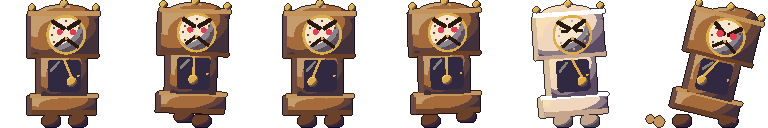
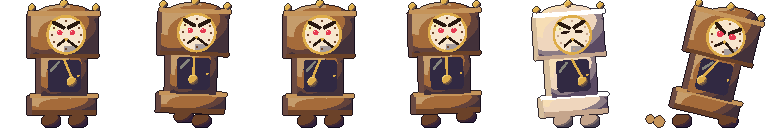
2D enemies: polish pass in progress (blob, memory book, grandfather clock)
Done: further refinements to the three enemy sprites on stages 1 to 6; only enemy PNGs changed among the assets.
To do: final 2D pass and before/after check.
Notes for the others: drawing only, no gameplay change.

diff --git a/tools/assetgen/SpriteGen.cpp b/tools/assetgen/SpriteGen.cpp
@@ -826,7 +826,7 @@ void lump(Canvas& c, float cx, float cy, float rx, float ry, float amp, float ph
         float dx = (f.x - cx) / rx, dy = (f.y - cy) / ry;
         float a = std::atan2(dy, dx);
         float k = 1 + amp * (0.9f * std::sin(2 * a + 0.7f + ph) + 0.6f * std::sin(3 * a + 2.1f - 2 * ph) +
-                             0.35f * std::sin(5 * a + 1.3f + 3 * ph));
+                             0.25f * std::sin(5 * a + 1.3f + 3 * ph));
         f.nx = dx / k;
         f.ny = dy / k;
         return f.nx * f.nx + f.ny * f.ny <= 1.0f;
@@ -852,16 +852,20 @@ void drawBlob(Canvas& c, int frame)
     const int e = g_era;
     const int tp = TILE_PX[e];
     const int dotPx = tp >= 64 ? 3 : (tp >= 32 ? 2 : 1);
-    Col body = pc(0x9a92ac, 2), smear = pc(0x7c7590, 1), faint = pc(0x5a536c, 1);
+    Col body = pc(0x9a90b2, 2), smear = pc(0x7c7590, 1), faint = pc(0x5a536c, 1);
     Col sheen = pc(0xb8b2c6, 3);
     if (e == 2) { body = hex(0x8a7fb4); smear = hex(0x5a5468); faint = hex(0x5a5468); sheen = hex(0xb8b6c8); }
+    if (e == 3) { faint = hex(0x463a66); smear = hex(0x6e6a9e); }
+    if (e >= 4) faint = hex(0x4a4462);
     const float ph = frame * 1.5707963f;
 
     if (frame == BF_SQUASH) {
         // gone flat: a puddle with a couple of flecks thrown off, the two dots shut
         lump(c, 0.5f, 0.93f, 0.44f, 0.1f, 0.12f, 0.6f, 0.99f, lit(body));
-        c.circle(0.14f, 0.74f, 0.045f, solid(body));
-        c.circle(0.86f, 0.7f, 0.035f, solid(smear));
+        if (e >= 4) {
+            c.circle(0.14f, 0.76f, 0.04f, solid(body));
+            c.circle(0.86f, 0.72f, 0.03f, solid(smear));
+        }
         c.rect(0.52f, 0.9f, 0.1f, 1.2f / tp, solid(faint));
         c.rect(0.72f, 0.91f, 0.08f, 1.2f / tp, solid(faint));
         return;
@@ -878,26 +882,37 @@ void drawBlob(Canvas& c, int frame)
         float x0 = cx - rx * (i == 1 ? 0.75f : 0.85f);
         c.capsule(x0 - smearLen[frame][i], smearY[i] + squish * 0.3f, x0 + 0.1f, smearY[i], smearR[i], solid(smear));
     }
-    // a sag pulling off the back, and half-formed bumps that come and go on top
-    lump(c, cx - 0.2f, 0.82f, 0.19f, 0.14f, 0.1f, ph + 1.0f, 0.98f, lit(body));
-    const float bumpX[4] = {0.62f, 0.58f, 0.66f, 0.6f}, bumpR[4] = {0.13f, 0.1f, 0.12f, 0.14f};
-    lump(c, bumpX[frame] + sway, cy - ry * 0.85f, bumpR[frame], bumpR[frame] * 0.85f, 0.12f, ph * 2, 1.0f, lit(body));
-    if (frame % 2 == 0) c.circle(cx - 0.18f, cy - ry * 0.8f, 0.07f, lit(body));
+    // one mass: the sag pulling off its back and the half-formed bumps on top are lit as part
+    // of the same lump, so they swell out of it rather than sit on it
+    auto mass = [&, body](float scx, float scy, float srx, float sry) -> Fill {
+        Fill base = lit(body);
+        return [=](const Frag& f) {
+            Frag g = f;
+            g.nx = (f.x - scx) / srx;
+            g.ny = (f.y - scy) / sry;
+            return base(g);
+        };
+    };
+    const Fill one = mass(cx, cy, rx * 1.1f, ry * 1.15f);
+    // it doesn't sit on the ground like a stone: it slumps, spreading out into a soft skirt
+    lump(c, cx + 0.02f, 0.93f, rx * 1.12f, 0.07f, 0.1f, ph + 2.0f, 0.985f, one);
+    lump(c, cx - 0.2f, 0.82f, 0.19f, 0.14f, 0.08f, ph + 1.0f, 0.98f, one);
+    const float bumpX[4] = {0.64f, 0.4f, 0.58f, 0.36f}, bumpR[4] = {0.12f, 0.11f, 0.1f, 0.13f};
+    lump(c, bumpX[frame] + sway, cy - ry * 0.8f, bumpR[frame], bumpR[frame] * 0.85f, 0.1f, ph * 2, 1.0f, one);
+    if (frame % 2 == 0) c.circle(cx - 0.19f, cy - ry * 0.7f, 0.07f, one);
+    else c.circle(cx + 0.24f, cy - ry * 0.55f, 0.06f, one);
     // the mass itself, never quite the same shape twice
-    lump(c, cx, cy, rx, ry, 0.075f, ph, 0.98f, lit(body));
-    if (e >= 3) {
-        // a smudge of light dragged across it, and bumps half pushed out of the surface
-        c.capsule(cx - 0.24f, cy - ry * 0.45f, cx - 0.04f, cy - ry * 0.55f, 0.035f, solid(sheen));
-        lump(c, cx - 0.06f, cy + ry * 0.35f, 0.1f, 0.07f, 0.15f, ph, 1.0f, lit(body));
-    }
+    lump(c, cx, cy, rx, ry, 0.06f, ph, 0.98f, one);
+    if (e >= 4)   // a smudge of light dragged across it, as if rubbed with a thumb
+        c.capsule(cx - 0.24f, cy - ry * 0.5f, cx - 0.06f, cy - ry * 0.6f, 0.03f, solid(sheen));
     if (e >= 4) {   // loose specks drifting off the back
         c.dot(cx - rx - 0.22f, 0.66f + 0.02f * (frame % 2), smear, dotPx - 1 > 0 ? dotPx - 1 : 1);
         c.dot(cx - rx - 0.3f, 0.79f - 0.02f * (frame % 2), smear, 1);
     }
     // two dim dots that might be eyes, never quite level
     const float dy0[4] = {0.0f, 0.015f, 0.0f, -0.015f};
-    c.dot(cx + 0.1f, cy - 0.05f + dy0[frame], faint, dotPx);
-    c.dot(cx + 0.24f, cy - 0.0f - dy0[frame], faint, dotPx);
+    c.dot(cx + 0.0f, cy - 0.07f + dy0[frame], faint, dotPx);
+    c.dot(cx + 0.15f, cy - 0.04f - dy0[frame], faint, dotPx);
 }
 
 // The flyer: a memory book, a little worn hardback with its covers folded right back so the
@@ -926,11 +941,12 @@ void drawFlyer(Canvas& c, int frame)
     Col page = pc(0xf4eedc, 3), pageD = pc(0xd2c6a8, 2), pageE = pc(0xa89a80, 1);
     Col label = pc(0xead8a8, 3), ink = pc(0x2a1a1e, 0), ribbon = pc(0xd8a848, 2), white = pc(0xfaf3e6, 3);
     if (e == 2) { cover = hex(0xe8364f); coverD = hex(0x6a2c6e); worn = hex(0xf28cb4); pageD = hex(0xf5c9a0); ribbon = hex(0xf7d73a); }
-    if (e == 3) { cover = hex(0xa02a3a); coverD = hex(0x5a1a2a); worn = hex(0xc06a8a); }
+    if (e == 3) { cover = hex(0xa02a3a); coverD = hex(0x5a1a2a); worn = hex(0xc06a8a); pageD = page; pageE = hex(0xc89a7a); }
+    if (e <= 2) pageE = pageD;   // low res: every page the same, split by a line of shade
     if (hurt) { cover = pc(0xf0c8c8, 2); coverD = pc(0xc89aa0, 1); }
 
     const float flap = hurt ? 0.0f : std::sin(frame * 1.5707963f);
-    const float a0 = hurt ? 0.95f : -0.8f * flap;   // wing angle: negative is up
+    const float a0 = hurt ? 0.95f : -(e <= 2 ? 0.9f : 0.8f) * flap;   // wing angle: negative is up
     const int pages = e <= 2 ? 3 : 4;
     const float spread = e <= 2 ? 0.34f : (hurt ? 0.36f : 0.26f);
     const float bx = 0.5f, by = 0.5f + (hurt ? 0.04f : 0.03f * flap);
@@ -939,20 +955,22 @@ void drawFlyer(Canvas& c, int frame)
     // each wing: a fan of pages from behind the cover, back to front, alternating light and shade
     auto wing = [&](float side) {
         float wx = bx + side * (cw * 0.5f - 0.05f), wy = by - 0.03f;
-        for (int i = pages - 1; i >= 0; --i) {
-            float k = i - (pages - 1) * 0.5f;
-            float a = a0 + k * spread;
-            float len = 0.42f - std::fabs(k) * 0.05f;
-            float dx = std::cos(a) * side, dy = std::sin(a);
-            float nx = -dy, ny = dx;   // across the page
-            float w0 = 0.05f, w1 = e <= 2 ? 0.1f : 0.085f;
-            Vector2 tip{wx + dx * len, wy + dy * len};
-            c.poly({{wx + nx * w0, wy + ny * w0}, {tip.x + nx * w1, tip.y + ny * w1}, {tip.x + dx * 0.03f, tip.y + dy * 0.03f},
-                    {tip.x - nx * w1, tip.y - ny * w1}, {wx - nx * w0, wy - ny * w0}}, solid(i % 2 == 0 ? page : pageD));
-            if (e >= 3)   // the page's edge: a thin line down one side
-                c.capsule(wx - nx * w0 * 0.7f, wy - ny * w0 * 0.7f, tip.x - nx * w1 * 0.8f, tip.y - ny * w1 * 0.8f, 0.6f * px,
-                          solid(pageE));
-        }
+        for (int pass = 0; pass < 2; ++pass)
+            for (int i = pages - 1; i >= 0; --i) {
+                float k = i - (pages - 1) * 0.5f;
+                float a = a0 + k * spread;
+                float len = 0.42f - std::fabs(k) * 0.05f;
+                float dx = std::cos(a) * side, dy = std::sin(a);
+                float nx = -dy, ny = dx;   // across the page
+                float w0 = 0.05f, w1 = e <= 2 ? 0.1f : 0.085f;
+                Vector2 tip{wx + dx * len, wy + dy * len};
+                if (pass == 0)
+                    c.poly({{wx + nx * w0, wy + ny * w0}, {tip.x + nx * w1, tip.y + ny * w1}, {tip.x + dx * 0.03f, tip.y + dy * 0.03f},
+                            {tip.x - nx * w1, tip.y - ny * w1}, {wx - nx * w0, wy - ny * w0}}, solid(e <= 2 || i % 2 == 0 ? page : pageD));
+                else if (i > 0)   // where one page lies over the next: a thin line of shade
+                    c.capsule(wx + dx * 0.04f, wy + dy * 0.04f, tip.x - nx * w1 * 0.3f, tip.y - ny * w1 * 0.3f,
+                              (e <= 2 ? 0.55f : 0.5f) * px, solid(pageE));
+            }
     };
     wing(-1.0f);
     wing(1.0f);
@@ -981,7 +999,7 @@ void drawFlyer(Canvas& c, int frame)
         c.dot(x0 + 0.25f, y0 + ch - 0.12f, worn, 1);
     }
     // a paper label on the cover, with a line of faded writing
-    if (e <= 2) c.rect(x0 + sw + px, y0 + px, cw - sw - 2 * px, 2 * px, solid(label));
+    if (e <= 2) c.rect(x0 + sw + px, y0 + px, cw - sw - 2 * px, px, solid(label));
     else {
         c.rect(x0 + 0.1f, y0 + 0.06f, cw - 0.16f, 0.11f, solid(label), 0.01f);
         c.rect(x0 + 0.13f, y0 + 0.1f, cw - 0.22f, px, solid(pageE));
@@ -1133,36 +1151,54 @@ void drawBrute(Canvas& c, int frame)
     circ(1.0f, 0.06f, 0.055f, lit(brass));
     // the clock face is its face
     const float fx = 1.03f, fy = 0.54f;
-    circ(fx, fy, 0.31f, solid(brass));
-    circ(fx, fy, 0.27f, lit(dial, false));
-    if (e >= 3)   // hour marks
-        for (int i = 0; i < 12; ++i) {
+    if (e <= 3) {
+        // low res: the face placed pixel by pixel (8 x 8 inside a one-pixel brass ring):
+        // 'o' the brows and the hands (twenty past eight, a scowl), 'e' the eyes
+        const float dr = 4.4f / tp;
+        circ(fx, fy, dr + 1.1f / tp, solid(e == 1 ? tone(1) : brass));
+        circ(fx, fy, dr, solid(dial));
+        Rows face = {"........", "oo....oo", "..o..o..", ".ee..ee.", "........", "...oo...", "..o..o..", "........"};
+        if (charge) { face[1] = "........"; face[2] = "oo....oo"; face[3] = ".ee..ee."; face[4] = ".ee..ee."; }
+        if (hurt) { face[3] = ".oo..oo."; }
+        Col eyeLo = e == 1 ? tone(1) : eye;
+        for (int y = 0; y < 8; ++y)
+            for (int x = 0; x < 8; ++x) {
+                char ch = face[y][x];
+                if (ch == '.') continue;
+                Vector2 p = P(fx + (x - 3.5f) / tp, fy + (y - 3.5f) / tp);
+                c.dot(p.x, p.y, ch == 'e' ? eyeLo : ink);
+            }
+    } else {
+        circ(fx, fy, 0.31f, solid(brass));
+        circ(fx, fy, 0.27f, litFace(dial));
+        for (int i = 0; i < 12; ++i)   // hour marks
             if (i == 0 || i == 6 || (i >= 2 && i <= 4) || (i >= 8 && i <= 10)) {
                 float a = i * 0.5235988f;
-                Vector2 p = P(fx + std::sin(a) * 0.22f, fy - std::cos(a) * 0.22f);
+                Vector2 p = P(fx + std::sin(a) * 0.225f, fy - std::cos(a) * 0.225f);
                 c.dot(p.x, p.y, woodD, e >= 5 ? 2 : 1);
             }
+        // brows: heavy, slanting down to the middle (lower still when it charges)
+        float bl = charge ? 0.04f : 0.0f;
+        float bw = std::max(0.03f, 1.6f / tp);
+        line(fx - 0.19f, fy - 0.19f + bl * 0.4f, fx - 0.04f, fy - 0.11f + bl, bw, solid(ink));
+        line(fx + 0.19f, fy - 0.19f + bl * 0.4f, fx + 0.04f, fy - 0.11f + bl, bw, solid(ink));
+        // eyes under them
+        if (hurt) {
+            line(fx - 0.15f, fy - 0.04f, fx - 0.06f, fy - 0.05f, bw * 0.7f, solid(ink));
+            line(fx + 0.06f, fy - 0.05f, fx + 0.15f, fy - 0.04f, bw * 0.7f, solid(ink));
+        } else {
+            float er = charge ? 0.055f : 0.045f;
+            ell(fx - 0.1f, fy - 0.03f, er, er * 0.9f, solid(eye));
+            ell(fx + 0.1f, fy - 0.03f, er, er * 0.9f, solid(eye));
+            c.dot(P(fx - 0.11f, fy - 0.05f).x, P(fx - 0.11f, fy - 0.05f).y, dial, 1);
+            c.dot(P(fx + 0.09f, fy - 0.05f).x, P(fx + 0.09f, fy - 0.05f).y, dial, 1);
         }
-    // brows: heavy, slanting down to the middle (lower still when it charges)
-    float bl = charge ? 0.05f : 0.0f;
-    float bw = std::max(0.035f, 1.4f / tp);
-    if (e <= 2) bw = 1.5f / tp;
-    line(fx - 0.2f, fy - 0.2f + bl * 0.4f, fx - 0.04f, fy - 0.1f + bl, bw, solid(ink));
-    line(fx + 0.2f, fy - 0.2f + bl * 0.4f, fx + 0.04f, fy - 0.1f + bl, bw, solid(ink));
-    // eyes under them
-    if (hurt) {
-        line(fx - 0.15f, fy - 0.06f, fx - 0.07f, fy - 0.06f, bw * 0.8f, solid(ink));
-        line(fx + 0.07f, fy - 0.06f, fx + 0.15f, fy - 0.06f, bw * 0.8f, solid(ink));
-    } else {
-        float er = charge ? 0.06f : 0.05f;
-        if (e <= 2) er = 1.1f / tp + 0.01f;
-        ell(fx - 0.1f, fy - 0.04f, er, er * 0.9f, solid(eye));
-        ell(fx + 0.11f, fy - 0.04f, er, er * 0.9f, solid(eye));
+        // the hands make the scowl: twenty past eight, an upside-down V
+        float hw = std::max(0.02f, 1.0f / tp);
+        line(fx, fy + 0.07f, fx - 0.13f, fy + 0.17f, hw, solid(ink));
+        line(fx, fy + 0.07f, fx + 0.16f, fy + 0.19f, hw, solid(ink));
+        circ(fx, fy + 0.07f, std::max(0.025f, 1.2f / tp), solid(brass));
     }
-    // the hands make the scowl: twenty past eight, an upside-down V
-    line(fx, fy + 0.06f, fx - 0.15f, fy + 0.17f, bw * 0.8f, solid(ink));
-    line(fx, fy + 0.06f, fx + 0.18f, fy + 0.19f, bw * 0.8f, solid(ink));
-    if (e >= 3) circ(fx, fy + 0.06f, std::max(0.025f, 1.0f / tp), solid(brass));
     // a charge: dust kicked up behind
     if (charge && e >= 2) {
         c.circle(0.3f, 1.9f, 0.08f, solid(woodL));
